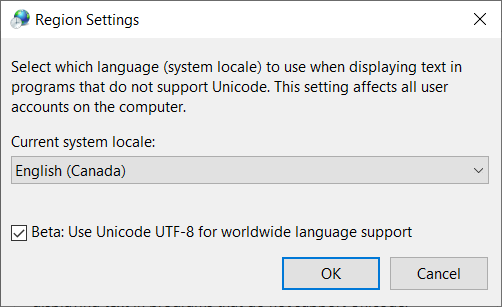
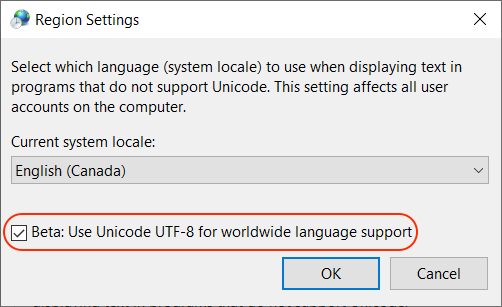
Added instructions to get UTF-8 text to work on Windows.

Changed region(s): [[0.0, 0.7036, 0.8367, 0.8208], [0.0299, 0.6743, 0.8068, 0.7036]]

diff --git a/INSTALL.md b/INSTALL.md
@@ -92,6 +92,35 @@ To run the tests, in the `dimroom\build` folder, enter the command:
 
 The tests can also be run in the testing tool in VS Code.
 
+#### Configuring Windows For the UTF-8 Character Encoding
+
+`dimroom` is designed to work in a command-line terminal, with the UTF-8 character
+encoding system. By default, Windows is configured to use UTF-16 character encoding.
+It is necessary to make some changes to properly display UTF-8 characters.
+
+Begin by opening the Windows Control Panel. Click on `Region` (circled in red below).
+
+![Control Panel](./Control_Panel.PNG)
+
+When the Region dialog comes up, click on the `Administrative` tab (circled in red below).
+
+![Region Dialog](./Region_Formats.PNG)
+
+On the `Administrative` tab, click on the `Change system locale...` button (circled in
+red below).
+
+![Administrative Tab](./Region_Administrative.PNG)
+
+In the `Region Settings` dialog, make sure that `Beta: Use Unicode UTF-8 for
+worldwide language support` is checked (circled in red below).
+
+![Region Settings](./Region_Settings_Unicode.PNG)
+
+Close the dialogs by clicking the `OK` button, and restart Windows. The machine
+will now correctly display UTF-8 text in command-line windows.
+
+#### Running Dimroom
+
 To run `dimroom`, enter the command:
 
     C:\Users\asmithee\src\dimroom\build> .\Debug\dimroom.exe ..\test\data\sample.csv
